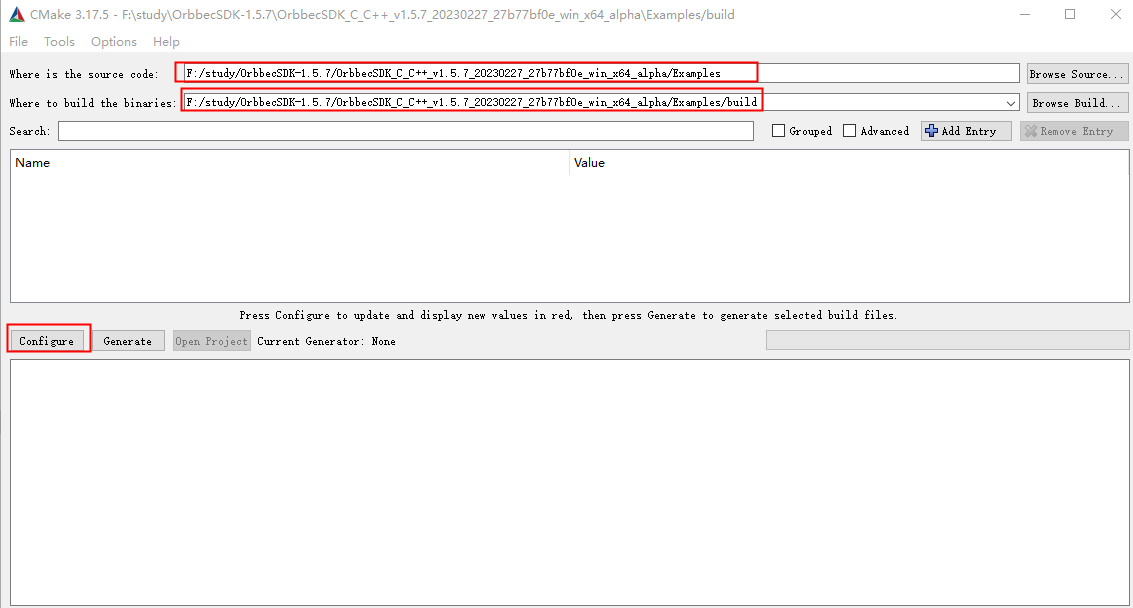
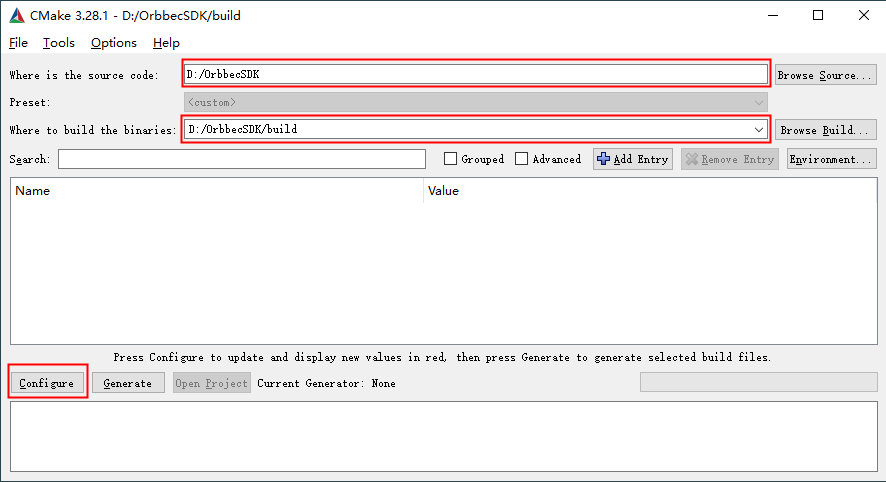
[1.9.x][doc][fix]:Update the path description in doc/tutorial

diff --git a/doc/tutorial/English/Environment_Configuration.md b/doc/tutorial/English/Environment_Configuration.md
@@ -1,4 +1,5 @@
 <!-- 本文档面向开发者 -->
+
 # introduction
 
 This document introduces the installation of OrbbecSDK dependencies and the compilation instructions of OrbbecSDK Sample.
@@ -41,9 +42,7 @@ Now due to the Windows system mechanism, for UVC protocol devices, if you need t
 Software dependency: VisualStudio2019, cmake 3.10 and above.
 
 * Download OrbbecSDK software package. Take version 1.5.7 as an example to explain how Windows compiles.
-
 * Open Cmake and set the "Examples" folder as the code path, and the "build" folder under "Examples" as the path to generate the binary file, as shown in the figure below. If there is no build under Examples, you need to create a new folder.
-
 
 ![6](Image/orbbec_sample_005.png)
 
@@ -70,14 +69,10 @@ Method 2: In the folder, directly start the Visual Studio project in Examples/bu
 ![11](Image/orbbec_sample_010.png)
 
 * Select the project you want to run, right click and "set as startup project", select release and 64-bit version at the run option.
-
-
 * Connect the device to the host
-
 * Copy the dll files from the bin directory of the Examples folder to the build folder where the generated executables located at.
-![13](Image/orbbec_sample_013.png)
-
-*  run the HelloOrbbec project
+  ![13](Image/orbbec_sample_013.png)
+* run the OBHelloOrbbec project
 
 ![14](Image/orbbec_sample_014.png)
 
@@ -87,27 +82,26 @@ Method 2: In the folder, directly start the Visual Studio project in Examples/bu
 
 * Install libudev library:
 
-    ``` bash
-    sudo apt install libudev-dev
-    ```
-
+  ```bash
+  sudo apt install libudev-dev
+  ```
 * Install libusb library:
 
-    ``` bash
-    sudo apt install libusb-dev
-    ```
+  ```bash
+  sudo apt install libusb-dev
+  ```
 
 ## 2. USB access rights configuration
 
-By default, direct access to USB devices in Linux systems requires root privileges, which can be resolved through the rules configuration file. After the files released by OrbbecSDK are decompressed, there will be a "99-obsensor-libusb.rules" configuration file and "install.sh" installation script in the Script directory.
+By default, direct access to USB devices in Linux systems requires root privileges, which can be resolved through the rules configuration file. After the files released by OrbbecSDK are decompressed, there will be a "99-obsensor-libusb.rules" configuration file and "install_udev_rules.sh" installation script in the Script directory.
 
 ![20](Image/orbbec_sample_linux_001.png)
-Run the "install.sh" script through the sudo command to complete the rules Installation of configuration files.
+Run the "install_udev_rules.sh" script through the sudo command to complete the rules Installation of configuration files.
 
-``` bash
-sudo chmod +x ./install.sh
-sudo ./install.sh
- ```
+```bash
+sudo chmod +x ./install_udev_rules.sh
+sudo ./install_udev_rules.sh
+```
 
 ## 3. Increasing the USBFS buffer size (Optional)
 
@@ -121,7 +115,7 @@ cat /sys/module/usbcore/parameters/usbfs_memory_mb
 
 ### Increase the USBFS buffer size until the next reboot (here: example value 128)
 
-``` bash
+```bash
 sudo sh -c 'echo 128 > /sys/module/usbcore/parameters/usbfs_memory_mb'
 ```
 
@@ -131,24 +125,20 @@ To increase the buffer size permanently, add the kernel parameter usbcore.usbfs_
 
 For GRUB2 (most common):
 
-  1. Open /etc/default/grub. Replace: `GRUB_CMDLINE_LINUX_DEFAULT="quiet splash"` (or other contents within the quotation marks depending on your system) with: `GRUB_CMDLINE_LINUX_DEFAULT="quiet splash usbcore.usbfs_memory_mb=128"`
+1. Open /etc/default/grub. Replace: `GRUB_CMDLINE_LINUX_DEFAULT="quiet splash"` (or other contents within the quotation marks depending on your system) with: `GRUB_CMDLINE_LINUX_DEFAULT="quiet splash usbcore.usbfs_memory_mb=128"`
+2. Update grub
 
-  2. Update grub
-
-     ``` bash
-      sudo update-grub
-     ```
-
-  3. reboot your system
+   ```bash
+    sudo update-grub
+   ```
+3. reboot your system
 
 Other bootloaders: configure additional kernel parameters of other bootloaders, please see the manual of your bootloader.
 
 ## 4. Verify device status
 
 * Environment preparation: ubuntu18.04 x64 desktop
-
 * Take Astra+ as an example, use USB 3.0 Type-C data cable to connect with PC.
-
 * Use the lsusb command to check if the PC system correctly recognizes the camera.
 
 ![21](Image/orbbec_sample_linux_002.png)
@@ -162,23 +152,28 @@ VID: 2bc5 PID: 0636 (depth camera)
 
 ## 5. Linux Sample compile
 
-Create a build directory in the Examples directory, as follows:
+Create a build directory in the OrbbecSDK directory, as follows:
 ![image17](Image/orbbec_sample_linux_003.png)
 
-``` bash
+```bash
+cd OrbbecSDK
+mkdir build
 cd build
 cmake ..
 make
 ```
+
 # MacOS
 
 ### Install Xcode and Homebrew
+
 1. **Install Xcode**:
+
    - Xcode is the official development tool provided by Apple, which includes the C++ compiler.
    - You can download it for free from the Mac App Store.
    - Installing Xcode will also install the Command Line Tools, which include the GCC compiler and other development tools.
-
 2. **Install Homebrew**:
+
    - Homebrew is a package manager for macOS, useful for installing various development tools and libraries.
    - To install Homebrew, execute the following command in the terminal:
      ```bash
@@ -189,10 +184,13 @@ make
 These steps will set up the fundamental tools needed for C++ development on macOS.
 
 ### Install Dependency
+
 ```bash
 brew install cmake opencv
 ```
+
 ### Compile and run the sample
+
 ```bash
 cd OrbbecSDK
 mkdir build
